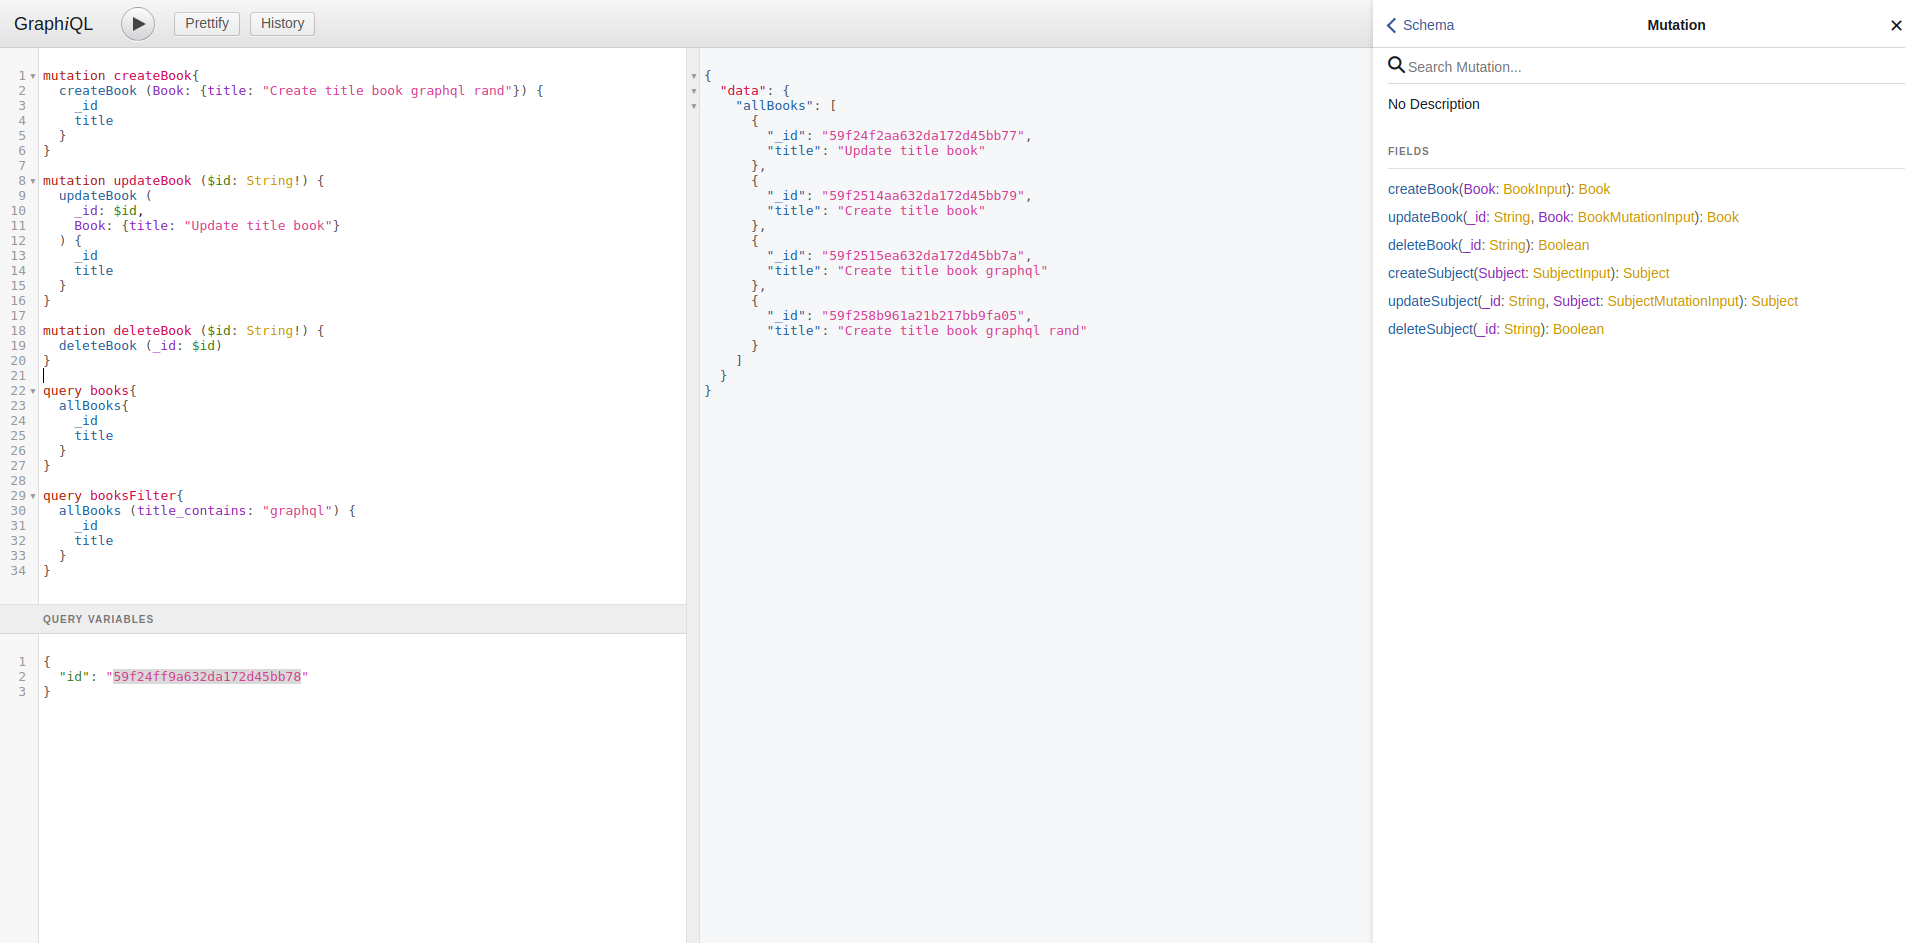
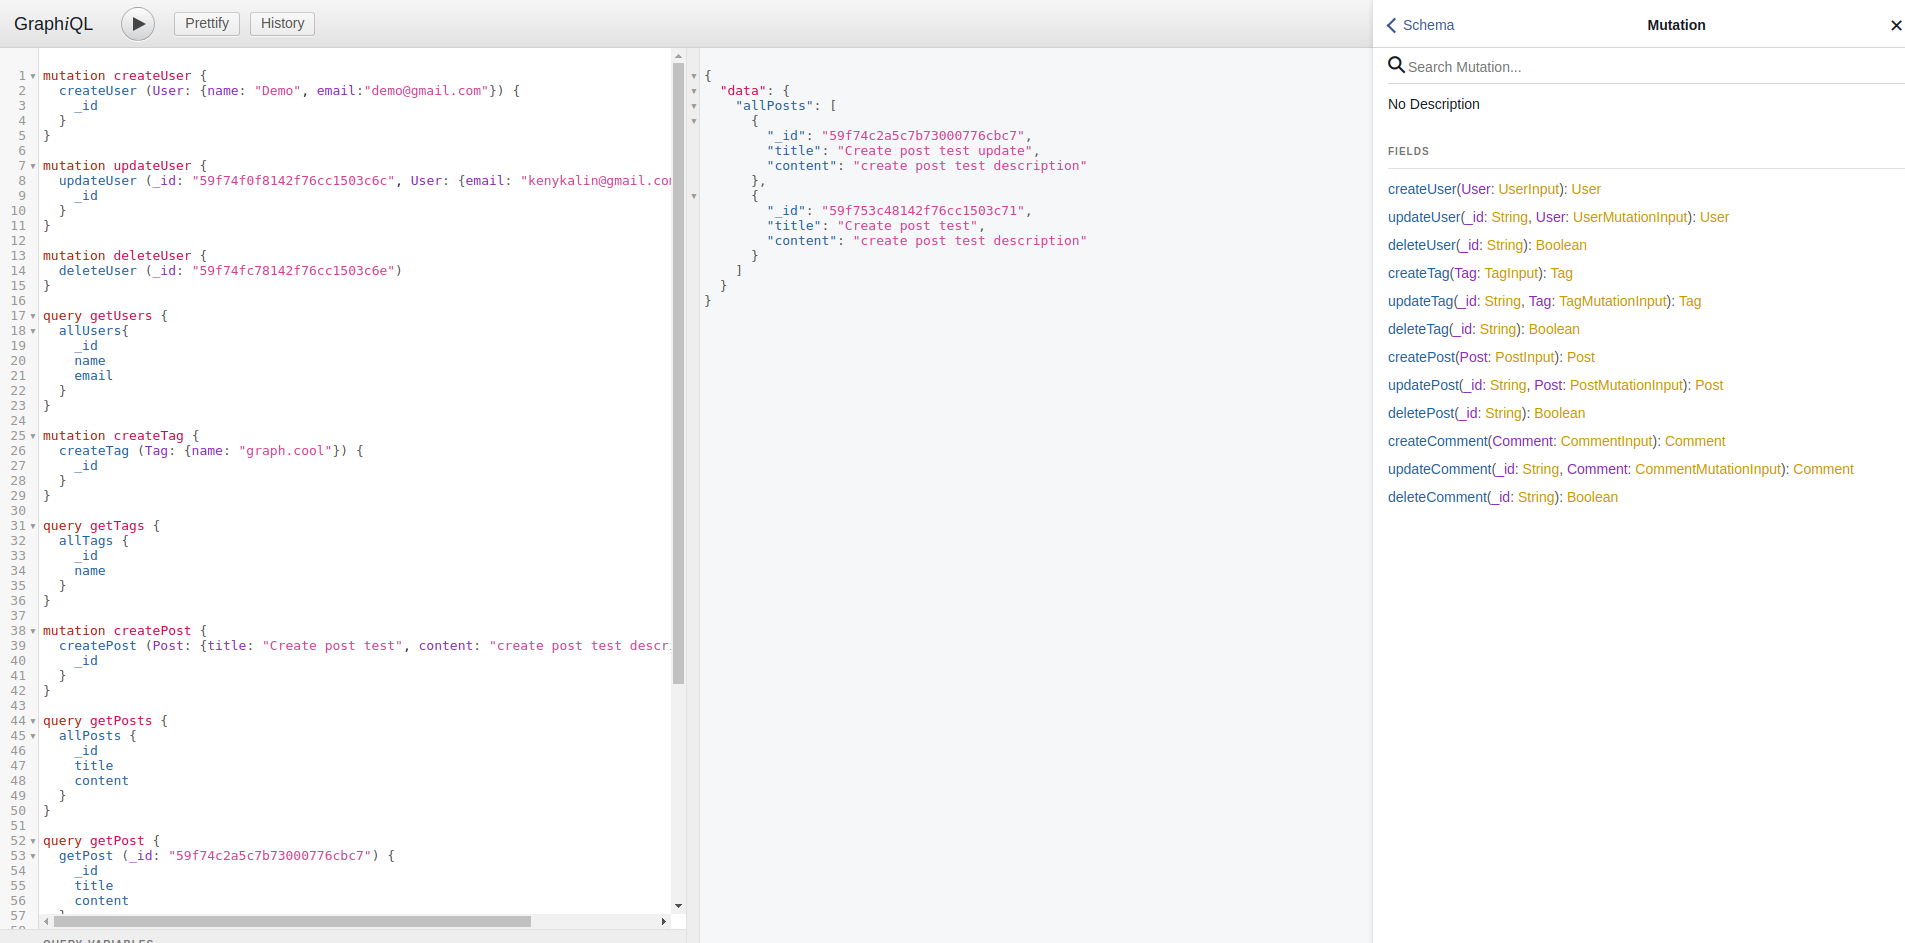
Update type example to blog app and update

diff --git a/src/projectSetup.js b/src/projectSetup.js
@@ -1,48 +1,67 @@
 import { dataTypes } from "mongo-graphql-starter";
-const { 
-  MongoIdType, 
-  StringType, 
-  IntType, 
-  FloatType, 
-  DateType, 
-  arrayOf, 
-  objectOf, 
-  formattedDate, 
-  typeLiteral 
+const {
+  MongoIdType,
+  StringType,
+  IntType,
+  FloatType,
+  DateType,
+  arrayOf,
+  objectOf,
+  formattedDate,
+  typeLiteral
 } = dataTypes;
 
-const Author = {
+
+const User = {
+  table: "users",
   fields: {
+    _id: MongoIdType,
     name: StringType,
+    email: StringType,
     birthday: DateType
   }
 };
 
-const Book = {
-  table: "books",
-  fields: {
-    _id: MongoIdType,
-    title: StringType,
-    pages: IntType,
-    weight: FloatType,
-    authors: arrayOf(Author),
-    primaryAuthor: objectOf(Author),
-    strArrs: typeLiteral("[[String]]"),
-    createdOn: DateType,
-    createdOnYearOnly: formattedDate({ format: "%Y" })
-  }
-};
-
-const Subject = {
-  table: "subjects",
+const Tag = {
+  table: "tags",
   fields: {
     _id: MongoIdType,
     name: StringType
   }
 };
 
+const Post = {
+  table: "posts",
+  fields: {
+    _id: MongoIdType,
+    title: StringType,
+    content: StringType,
+    author: objectOf(User),
+    tags: arrayOf(Tag),
+    likedPosts: arrayOf(User)
+  }
+};
+
+const Comment = {
+  table: "comments",
+  fields: {
+    _id: MongoIdType,
+    text: StringType,
+    upVotes: IntType,
+    downVotes: IntType,
+    author: objectOf(User),
+    post: objectOf(User)
+  }
+};
+
+User.fields.likes = arrayOf(Post);
+User.fields.posts = arrayOf(Post);
+Tag.fields.posts = arrayOf(Post);
+Post.fields.comments = arrayOf(Comment);
+
 export default {
-  Book,
-  Subject,
-  Author
+  User,
+  Tag,
+  Post,
+  Comment
 };

diff --git a/README.md b/README.md
@@ -3,6 +3,7 @@
 Example basic graphql with mongo-graphql-starter
 
 ## Run project
+First check the package.json to verify the engines support
 
 ```sh
 > yarn
@@ -13,48 +14,83 @@ Open in your browser: http://localhost:3000/graphql and test with:
 
 #### Graqhqli demo
 ```gql
-mutation createBook{
-  createBook (Book: {title: "Create title book graphql rand"}) {
+mutation createUser {
+  createUser (User: {name: "Demo", email:"demo@gmail.com"}) {
     _id
-    title
   }
 }
 
-mutation updateBook ($id: String!) {
-  updateBook (
-    _id: $id,
-    Book: {title: "Update title book"}
-  ) {
+mutation updateUser {
+  updateUser (_id: "59f74f0f8142f76cc1503c6c", User: {email: "kenykalin@gmail.com"}) {
     _id
-    title
   }
 }
 
-mutation deleteBook ($id: String!) {
-  deleteBook (_id: $id)
+mutation deleteUser {
+  deleteUser (_id: "59f74fc78142f76cc1503c6e")
 }
 
-query books{
-  allBooks{
+query getUsers {
+  allUsers{
     _id
-    title
+    name
+    email
   }
 }
 
-query booksFilter{
-  allBooks (title_contains: "graphql") {
+mutation createTag {
+  createTag (Tag: {name: "graph.cool"}) {
+    _id
+  }
+}
+
+query getTags {
+  allTags {
+    _id
+    name
+  }
+}
+
+mutation createPost {
+  createPost (Post: {title: "Create post test", content: "create post test description"}) {
+    _id
+  }
+}
+
+query getPosts {
+  allPosts {
     _id
     title
+    content
+  }
+}
+
+query getPost {
+  getPost (_id: "59f74c2a5c7b73000776cbc7") {
+    _id
+    title
+    content
+  }
+}
+
+mutation createComment {
+  createComment (Comment: {text: "Create comment test", author: {_id: "59f74f0f8142f76cc1503c6c"}}) {
+    _id
+  }
+}
+
+query getComments {
+  allComments {
+    _id
+    text
+    author{
+      _id
+      name
+    }
   }
 }
 ```
-#### Query variables demo
 
-```gql
-{
-  "id": "59f24f2aa632da172d45bb77"
-}
-```
 ### Screenshot
 
 ![Screenshot](https://raw.githubusercontent.com/kenyk7/graphcool-local/master/screenshot.png "Screenshot")
